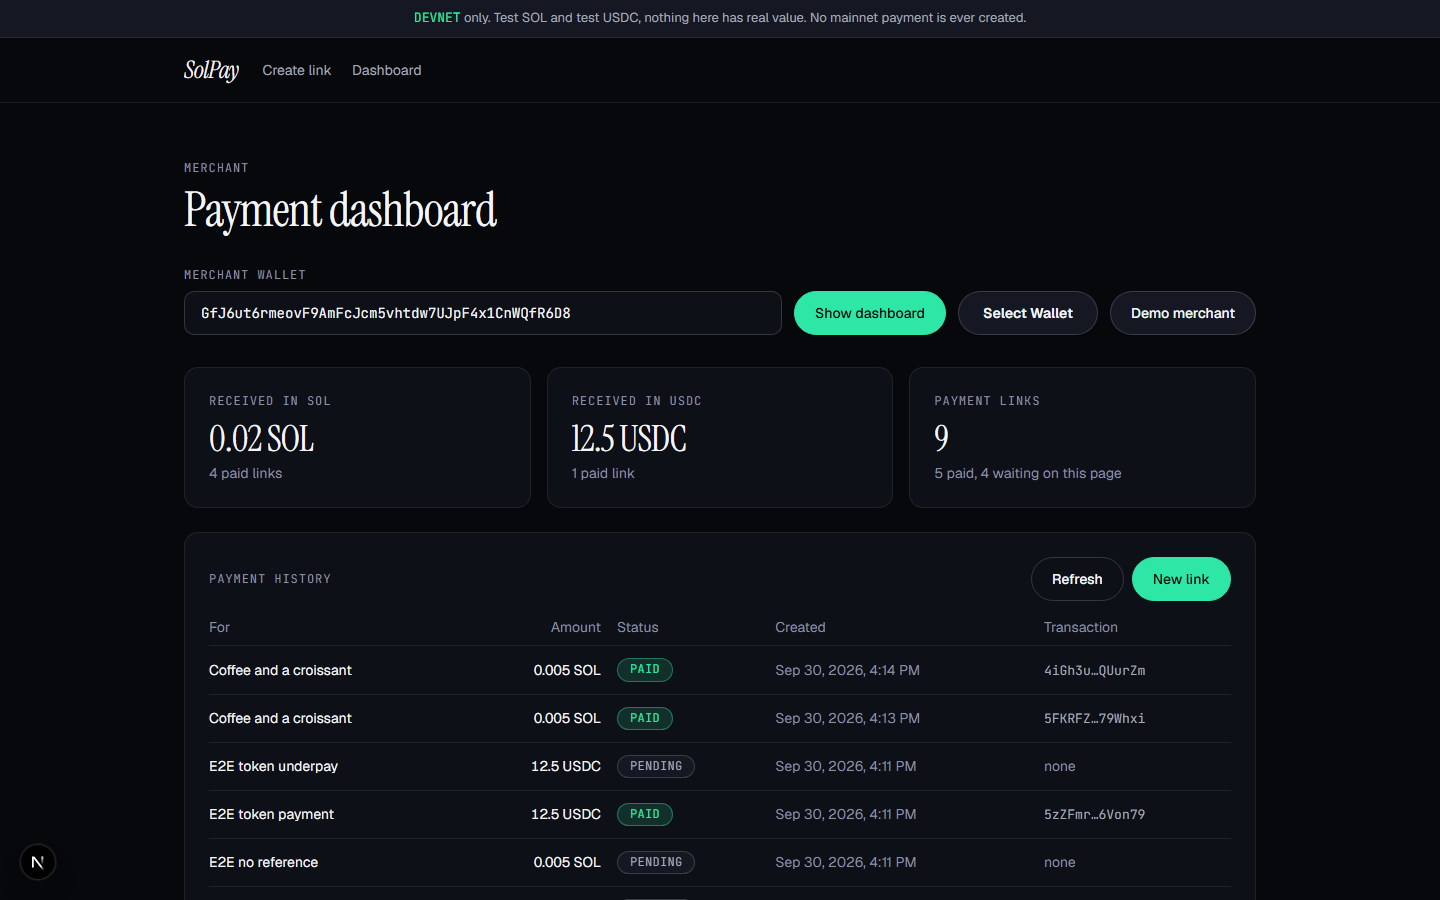
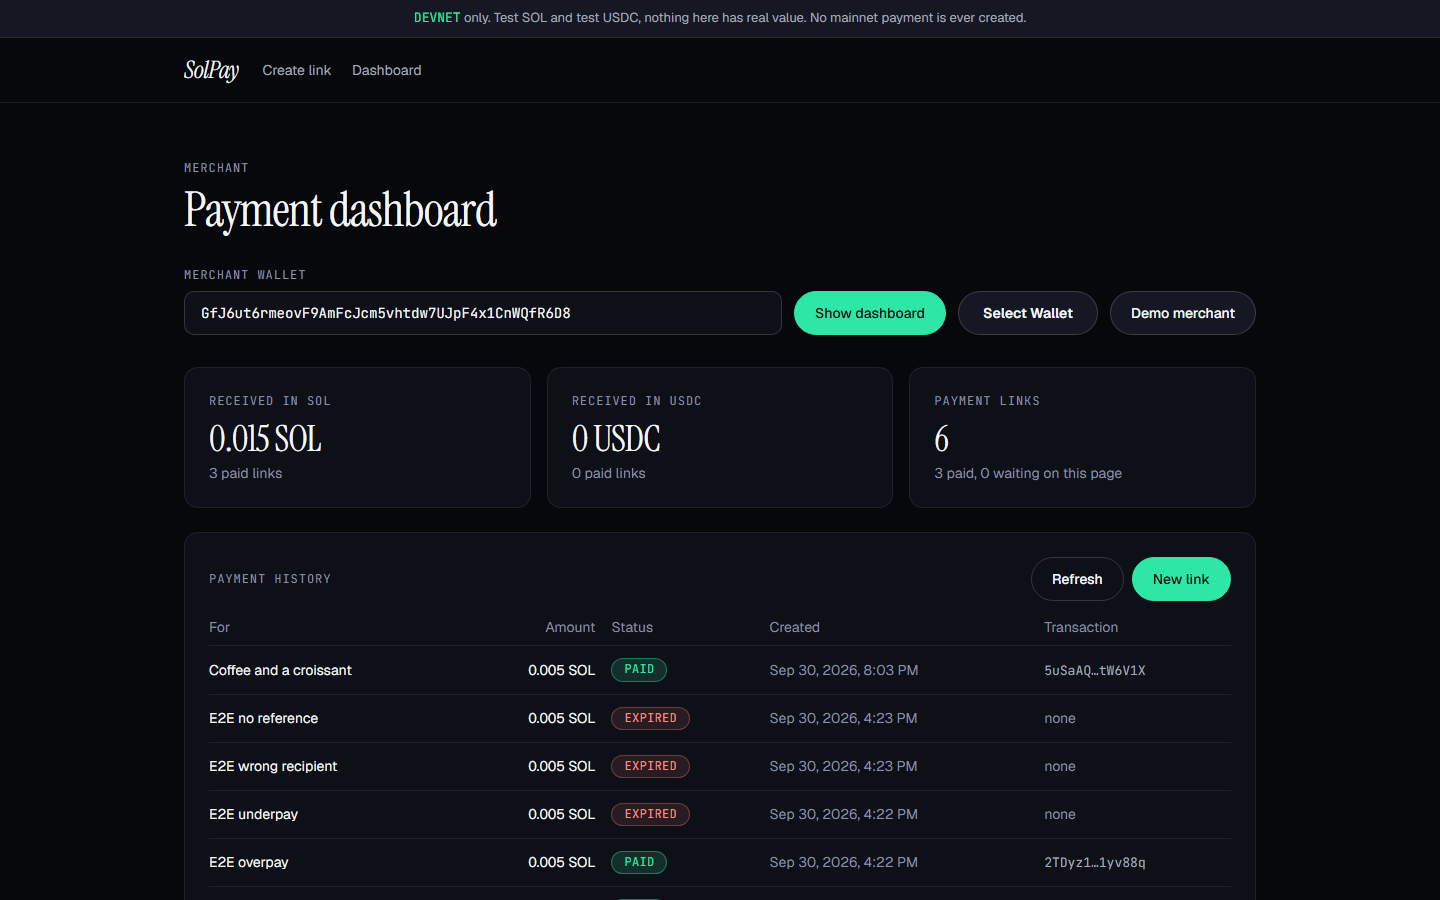
docs: live link and screenshots from the deployed site

diff --git a/README.md b/README.md
@@ -8,9 +8,13 @@
 
 Create a payment link for **SOL or USDC**, show the QR code, and watch it confirm on Solana devnet within seconds. A merchant dashboard lists every link with its status, totals and transaction.
 
-**Live demo:** LIVE_URL · **Personal project.** Devnet only: nothing here has value and no mainnet payment is ever created.
+**Live demo:** https://solpay-sable-five.vercel.app · **Personal project.** Devnet only: nothing here has value and no mainnet payment is ever created.
 
 ![Payment page with QR code](docs/pay-waiting.png)
+
+![Paid state](docs/pay-paid.png)
+
+![Merchant dashboard](docs/dashboard.png)
 
 ## Demo accounts
 
